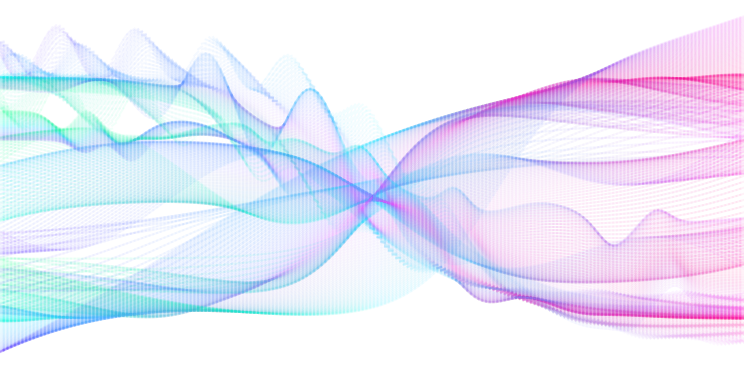
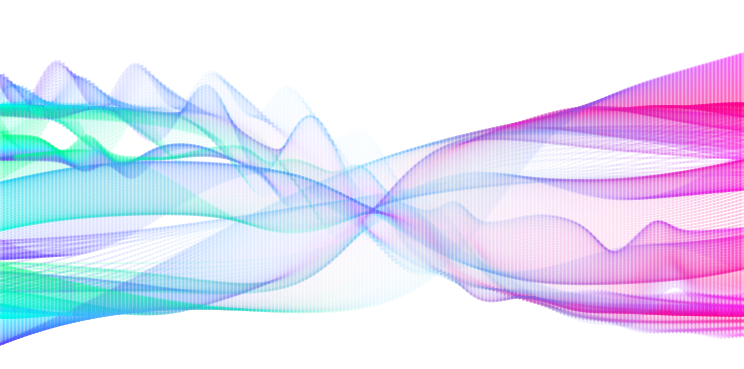
Update readme and doc pages.

diff --git a/docs/_layouts/home.html b/docs/_layouts/home.html
@@ -17,38 +17,32 @@
 <a id="skip-to-content" href="#content">Skip to the content.</a>
 
 <div class="sidebar">
-    {% if page.version == "2.1.0" %}
+    {% if page.version == "0.0.0" %}
       {% capture sidebar_content %}{% include sidebar_2.1.0.md %}{% endcapture %}
-      {% assign home_link = "/thermopack/v2.1.0/home.html" %}
-      {% assign github_link = "https://github.com/thermotools/thermopack/tree/v2.1.0" %}
-      {% assign zip_url = "https://github.com/thermotools/thermopack/archive/refs/tags/v2.1.0.zip" %}
-    {% elsif page.version == "2.2.0" %}
+      {% assign home_link = "/SurfPack/v0.0.0/home.html" %}
+    {% elsif page.version == "0.1.0" %}
       {% capture sidebar_content %}{% include sidebar_2.2.0.md %}{% endcapture %}
-      {% assign home_link = "/thermopack/v2.2.0/home.html" %}
-      {% assign github_link = site.github.repository_url %}
-      {% assign zip_url = site.github.zip_url %}
+      {% assign home_link = "/SurfPack/v0.1.0/home.html" %}
     {% else %}
       {% capture sidebar_content %}{% include sidebar.md %}{% endcapture %}
-      {% assign home_link = "/thermopack/index.html" %}
-      {% assign github_link = site.github.repository_url %}
-      {% assign zip_url = site.github.zip_url %}
+      {% assign home_link = "/SurfPack/index.html" %}
     {% endif %}
 
     <div>
-        <a href="{{ home_link }}"><h2>ThermoPack {{ page.version }}</h2></a>
+        <a href="{{ home_link }}"><h2>SurfPack {{ page.version }}</h2></a>
     </div>
 
     {{ sidebar_content | markdownify }}
 
     <div class="sidebar-buttons">
         <div class="sidebar-button">
-            <a href="{{ github_link }}" class="btn">View on GitHub</a>
+            <a href="{{ site.github.repository }}" class="btn">View on GitHub</a>
         </div>
         <div class="sidebar-button">
-            <a href="{{ site.pypi.url }}" class="btn">View on PyPi</a>
+            <a href="{{ site.pypi_url }}" class="btn">View on PyPi</a>
         </div>
         <div class="sidebar-button">
-            <a href="{{ zip_url }}" class="btn">Download .zip</a>
+            <a href="{{ site.github.zip_url }}" class="btn">Download .zip</a>
         </div>
     </div>
 </div>

diff --git a/docs/_layouts/default.html b/docs/_layouts/default.html
@@ -40,13 +40,13 @@
 <div class="sidebar">
     {% if page.version == "0.0.0" %}
       {% capture sidebar_content %}{% include sidebar_2.1.0.md %}{% endcapture %}
-      {% assign home_link = "/surfpack/v0.0.0/home.html" %}
+      {% assign home_link = "/SurfPack/v0.0.0/home.html" %}
     {% elsif page.version == "0.1.0" %}
       {% capture sidebar_content %}{% include sidebar_2.2.0.md %}{% endcapture %}
-      {% assign home_link = "/surfpack/v0.1.0/home.html" %}
+      {% assign home_link = "/SurfPack/v0.1.0/home.html" %}
     {% else %}
       {% capture sidebar_content %}{% include sidebar.md %}{% endcapture %}
-      {% assign home_link = "/surfpack/index.html" %}
+      {% assign home_link = "/SurfPack/index.html" %}
     {% endif %}
 
     <div>
@@ -57,7 +57,7 @@
 
     <div class="sidebar-buttons">
         <div class="sidebar-button">
-            <a href="{{ site.github.repository_url }}" class="btn">View on GitHub</a>
+            <a href="{{ site.github.repository }}" class="btn">View on GitHub</a>
         </div>
         <div class="sidebar-button">
             <a href="{{ site.pypi_url }}" class="btn">View on PyPi</a>

diff --git a/docs/assets/css/page-header.css b/docs/assets/css/page-header.css
@@ -1,7 +1,7 @@
 .page-header {
     color: #ffffff;
     text-align: center;
-    background-image: url('/surfpack/assets/graphics/header.png');
+    background-image: url('/SurfPack/assets/graphics/header.png');
     background-position: center;
     background-size: cover;
 }

diff --git a/docs/assets/graphics/header_graphic.py b/docs/assets/graphics/header_graphic.py
@@ -60,23 +60,24 @@ if __name__ == '__main__':
     znorm = Normalize(-1, 1)
     plt.figure(figsize=(10, 5))
 
-    nz = [50, 100, 50, 50, 100, 100]
+    nz = [75, 150, 75, 75, 150, 150]
     funclist = [h1, h2, f1, f2, g1, g2]
     color_xshift = [0.8, 1, 0.6]
     alpha_list = [0.05, 0.05, 0.05, 0.05, 0.05, 0.05]
     N = 50
     N_seg = len(xlist) // N
-    for i in range(N):
+    for ni in range(N):
         funclist = np.roll(funclist, -1)
         alpha_list = np.roll(alpha_list, -1)
         nz = np.roll(nz, -1)
-        xl = xlist[i * N_seg : (i + 1) * N_seg + 1]
+        xl = xlist[ni * N_seg : (ni + 1) * N_seg + 1]
         for fi, func in enumerate(funclist):
+            print(f'Finished {fi} / {ni}')
             zl = np.linspace(-1, 1, nz[fi])
             for z in zl:
                 for i in range(len(xl) - 1):
                     plt.plot(xl[i : i + 2], func(xl[i : i + 2], z), color=cmap2d(xnorm(xl[i]), znorm(z))
-                             , alpha=alpha_list[fi])
+                             , alpha=0.03 * (0.5 * xl[i]**2 + 0.5))
 
     # NOTE: Because I couldn't figure out how to completely remove the green background from the header, the background
     #       figure needs to have white backing (not be transparent). Someone that knows more CSS than me can probably
@@ -90,6 +91,7 @@ if __name__ == '__main__':
     ax.get_yaxis().set_ticks([])
     plt.gca().set_facecolor('white')
 
+    plt.ylim(-1.5, 2)
     plt.xlim(min(xlist), max(xlist))
     plt.savefig('header.png', bbox_inches='tight', pad_inches=0, dpi=96)
     plt.show()

diff --git a/README.md b/README.md
@@ -1,33 +1,14 @@
 # SurfPack 
-## Classical density functinal theory for surfaces and interfaces
 
-# Issues
-  * Binary weights and accuracy when not using Fourier weights
-  * plot binary results vs. MC
+SurfPack is a library for computation of interfacial properties of fluids, and the properties of fluids at interfaces
+and in confined systems. The library includes an interface to Classical Density Functional theory, with implementations
+of several SAFT-based functionals. The package is implemented in pure python, building on the
+[ThermoPack](https://thermotools.github.io/thermopack/) python interface.
 
-# List of todos (Remove when accomplished)
-  * Implement Lanczos sigma
-  * Test with a wall potential
-  * Implement postprocessing routine to extract useful variables
-  * The thermopack association term implementation must be revised
-  * Implement association into the DFT code [[2]](#2)
-  * Implement one-dimensional cylindrical geometries
-  * Extract radial distribution function and compare to simulations
-  * Entropy for spherical
-  * Plot inital profile on top of result
-  * Spherical:
-    * Extend and shorten profiles
-    * Step on Ntot?
-    * Droplets correct initial profiles based on dP and sigma0
-    * Test gradient at bulk boundary
-    * Test grid size and width effect
+For documentation, installation- and getting started guides, see the [SurfPack homepage](https://thermotools.github.io/SurfPack).
+
 
 # References
-<a id="1">[1]</a>
-J. Mairhofer, J. Gross, Fluid Phase Equilib., 444, 1-12, 2017.
-
-<a id="2">[2]</a>
-E. Sauer, J. Gross, Ind. Eng. Chem. Res., 56, 4119, 2017.
-
-<a id="3">[3]</a>
-Heier et al., Mol. Phys., 116, 2018. (10.1080/00268976.2018.1447153)
+* J. Mairhofer, J. Gross, Fluid Phase Equilib., 444, 1-12, 2017.
+* E. Sauer, J. Gross, Ind. Eng. Chem. Res., 56, 4119, 2017.
+* Heier et al., Mol. Phys., 116, 2018. (10.1080/00268976.2018.1447153)

diff --git a/docs/_includes/sidebar.md b/docs/_includes/sidebar.md
@@ -1,13 +1,13 @@
-* [Installation](/SurfPack/vcurrent/source_build.html)
+* [Installation](/SurfPack/vcurrent/installation.html)
 * [Getting started](/SurfPack/vcurrent/getting_started.html)
-* [Advanced usage - Python](/SurfPack/vcurrent/more_advanced.html)
+* [Advanced usage](/SurfPack/vcurrent/more_advanced.html)
 * [Component identifiers](/thermopack/vcurrent/Component-name-mapping.html) 
 * [Phase flags](/thermopack/vcurrent/phase_flags.html)
 * [Adding new fluids](/thermopack/vcurrent/new_fluids.html)
 * [Documentation](/SurfPack/vcurrent/method_docs.html)
     * [`Functional` - The core of SurfPack](/SurfPack/vcurrent/Functional_methods.html)
     * [`SAFT` - Parent class for SAFT-type Functionals](/SurfPack/vcurrent/SAFT_methods.html)
-      * [`PC_SAFT` - The PC-SAFT EoS](/SurfPack/vcurrent/PC_SAFT_methods.html)
+      * [`PC_SAFT` - The PC-SAFT DFT](/SurfPack/vcurrent/PC_SAFT_methods.html)
 * [Memos - On The Details](/SurfPack/memo/index.html)
 * [Latest version (beta)](/SurfPack/)
 * [Citation](/SurfPack/please_cite.html)

diff --git a/docs/vcurrent/more_advanced.md b/docs/vcurrent/more_advanced.md
@@ -1,0 +1,14 @@
+---
+layout: default
+version: 
+title: Advanced Usage
+permalink: /vcurrent/more_advanced.html
+---
+
+# Tuning the solvers
+
+Some density profiles may be more difficult to converge than others. The numerical solver routines used by `SurfPack`
+are designed to be as easily tunable as possible.
+
+See [pyExamples/solver_setup.py](https://github.com/thermotools/SurfPack/blob/main/pyExamples/solver_setup.py) for examples
+on how to set up a tuned `SequentialSolver` for a specific problem. 

diff --git a/docs/vcurrent/installation.md b/docs/vcurrent/installation.md
@@ -1,0 +1,15 @@
+---
+layout: default
+version: 
+title: Installation
+permalink: /vcurrent/installation.html
+---
+
+SurfPack is a pure python package, but is currently not on the Python Packaging Index (PyPI). To install the package,
+run
+
+```bash
+git clone https://github.com/thermotools/SurfPack.git
+cd SurfPack
+pip install .
+```
